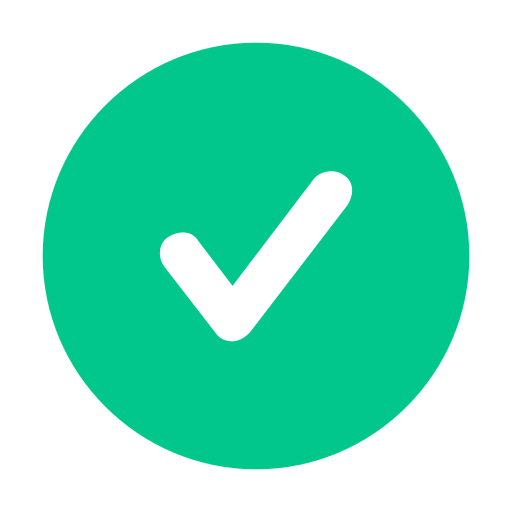
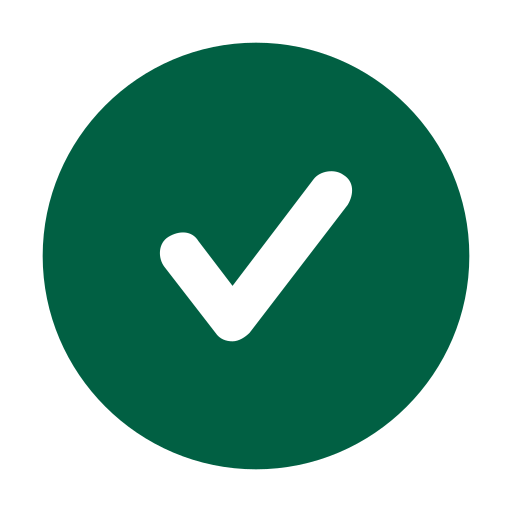
fix, feat: legacy javascript error, 주문 예상 품목 스켈레톤 적용, 아이콘 메인 색상 변경 etc.

diff --git a/src/components/predictItem/PredictPharmacyList.tsx b/src/components/predictItem/PredictPharmacyList.tsx
@@ -1,7 +1,8 @@
 import { getPredictOrderDetail } from "@/apis/predictItem";
 import { usePredictItemStore, usePredictPharmacyStore, useSelectedItemStore } from "@/store/store";
 import Image from "next/image";
-import { useCallback, useEffect } from "react";
+import { Suspense, useCallback, useEffect } from "react";
+import PredictItemSkeleton from "../skeleton/PredictItemSkeleton";
 
 export default function PredictPharmacyList() {
     const { result } = usePredictItemStore();
@@ -29,17 +30,17 @@ export default function PredictPharmacyList() {
 
     return (
         <div className="h-full flex flex-col">
-
-            {/* suspense 적용 체크 - 적용하려면 skeleton 컴포넌트 제작 필수 */}
             {
                 selectedMedNumber !== null
                     ? <div className="flex-1 h-full flex flex-col overflow-y-auto">
                         <div className="flex flex-col items-start text-xl text-main-color">
-                            {result.map((item) => {
-                                if (item.predictId === selectedMedNumber) {
-                                    return item.productName;
-                                }
-                            })}
+                            {
+                                result.map((item) => {
+                                    if (item.predictId === selectedMedNumber) {
+                                        return item.productName;
+                                    }
+                                })
+                            }
                         </div>
 
                         <div className="flex flex-col items-end text-md text-unselected-font">
@@ -51,22 +52,24 @@ export default function PredictPharmacyList() {
                             <span>주문 수량</span>
                             <span>주문 확률 (%)</span>
                         </div>
-                        <div className="flex-1 overflow-y-auto bg-gray-50">
-                            {
-                                medInfoList.map((predictItem, index) =>
-                                    <div
-                                        key={index}
-                                        className="flex-1 flex flex-row w-full items-center justify-start p-4 space-2 gap-4 overflow-y-auto bg-gray-50 rounded-b-lg"
-                                    >
-                                        <div key={index} className="w-full grid grid-cols-3 gap-4 p-4 bg-white text-center">
-                                            <span>{predictItem.pharmacyName}</span>
-                                            <span>{predictItem.expectedQty}</span>
-                                            <span>{predictItem.probOrder}</span>
+                        <Suspense fallback={<PredictItemSkeleton />}>
+                            <div className="flex-1 overflow-y-auto bg-gray-50">
+                                {
+                                    medInfoList.map((predictItem, index) =>
+                                        <div
+                                            key={index}
+                                            className="flex-1 flex flex-row w-full items-center justify-start p-4 space-2 gap-4 overflow-y-auto bg-gray-50 rounded-b-lg"
+                                        >
+                                            <div key={index} className="w-full grid grid-cols-3 gap-4 p-4 bg-white text-center">
+                                                <span>{predictItem.pharmacyName}</span>
+                                                <span>{predictItem.expectedQty}</span>
+                                                <span>{predictItem.probOrder}</span>
+                                            </div>
                                         </div>
-                                    </div>
-                                )
-                            }
-                        </div>
+                                    )
+                                }
+                            </div>
+                        </Suspense>
                     </div>
                     : <div className="flex-1 flex flex-col items-center justify-center bg-gray-50 rounded-b-lg py-4">
                         <div className="flex flex-col items-center">
@@ -77,6 +80,7 @@ export default function PredictPharmacyList() {
                                 alt="pharmacy icon"
                                 className="mb-6"
                                 priority
+                                fetchPriority="high"
                             />
                         </div>
                     </div>

diff --git a/next.config.js b/next.config.js
@@ -6,10 +6,10 @@
 const nextConfig = {
   reactStrictMode: true,
   experimental: {
-    optimizePackageImports: ["geist"],
+    optimizePackageImports: ["geist", "react-icons"],
   },
   compiler: {
-    removeConsole: process.env.NEXT_PUBLIC_NEXT_APP_ENV === "production",
+    removeConsole: process.env.NODE_ENV === "production",
   },
   productionBrowserSourceMaps: false,
   images: {

diff --git a/src/components/skeleton/PredictItemSkeleton.tsx b/src/components/skeleton/PredictItemSkeleton.tsx
@@ -4,7 +4,7 @@ export default function PredictItemSkeleton() {
             className="animate-pulse flex flex-col"
         >
             {
-                [...Array(4)].map((_, i) => (
+                [...Array(8)].map((_, i) => (
                     <div
                         key={i}
                         className="grid grid-cols-7 gap-4 p-4 bg-white text-center"
